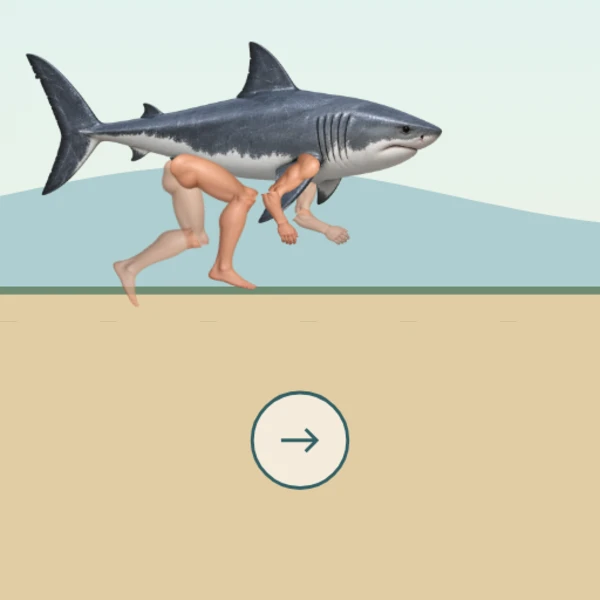
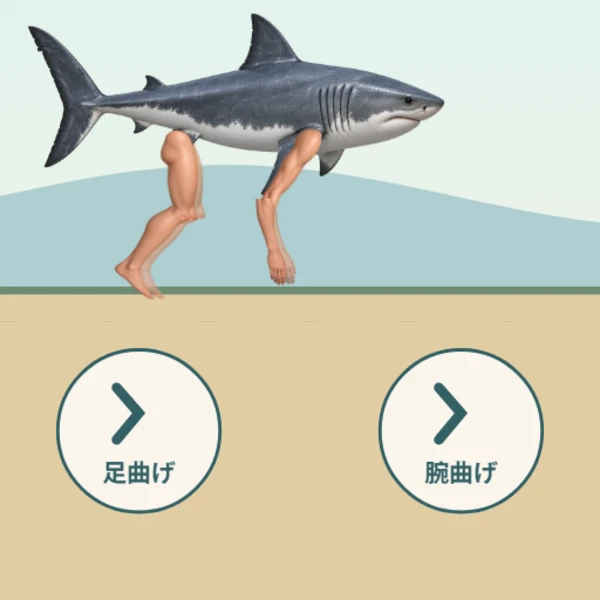
サメの脚と腕を別々のボタンで曲げ伸ばしする操作に変更

Changed region(s): [[0.03, 0.0, 0.75, 0.51], [0.09, 0.57, 0.6, 0.87], [0.63, 0.57, 0.93, 0.87]]

diff --git a/games/_shark-walk/index.html b/games/_shark-walk/index.html
@@ -130,9 +130,10 @@
 
   /* ============ 状態 ============ */
   var S = { INTRO: "intro", PLAY: "play", RESULT: "result" };
-  var state, score, T, held, keyMode = false;
+  var state, score, T;
+  var pointers={}, keys={};
 
-  var walker = SharkWalk(), camera = 0, accumulator=0, activePointer=null;
+  var walker = SharkWalk(), camera = 0, accumulator=0;
   var shark = new Image(), limbs = new Image(); shark.src="img/shark.webp"; limbs.src="img/limbs.webp";
   var CY;                                      /* 高さから決まる置き場所 */
   function place() {
@@ -144,8 +145,8 @@
     state = S.PLAY;
     score = 0;
     T = 0;
-    held = false;
-    walker=SharkWalk();camera=0;accumulator=0;activePointer=null;
+    pointers={};keys={};
+    walker=SharkWalk();camera=0;accumulator=0;
   }
 
   /* ============ 進行 ============ */
@@ -155,73 +156,48 @@
 
     accumulator+=dt;while(accumulator>=1/60){walker.update(1/60);accumulator-=1/60;} camera=Math.max(0,walker.now().x-235);
     score=Math.round(T*10)/10;
-    if(walker.now().x>=2500){state=S.RESULT;held=false;tone(880,.3,.1); }
+    if(walker.now().x>=2500){state=S.RESULT;clearInput();tone(880,.3,.1); }
   }
 
-  /* ============ 入力 ============
-     タップとスペースキーで同じことができるようにする。
-     x が null のときはキー操作（場所を指さない）。 */
-  function down(x, y) {
-    if(state===S.INTRO)return;
-    audioOn();
-    if (state === S.RESULT) {
-      var hit = x == null ? "retry" : hitButton(x, y);
-      if (hit === "share") doShare();
-      else if (hit === "retry") newRound();
-      return;
-    }
-    if(held)return;
-    held = true;
-    /* ▼UPDATE: 押したときの処理 */
-    walker.advance();
-    tone(130,.055,.035,"sine",75);
+  /* 左は脚、右は腕。指とキーを別々に数え、同時押しでも片方を離せる。 */
+  function controls(){return [{id:"leg",x:125,y:H*.82,r:73,label:"足曲げ"},{id:"arm",x:415,y:H*.82,r:73,label:"腕曲げ"}];}
+  function controlAt(x,y){var bs=controls();for(var i=0;i<bs.length;i++){var b=bs[i];if(Math.hypot(x-b.x,y-b.y)<=b.r)return b.id;}return null;}
+  function syncInput(){
+    ["leg","arm"].forEach(function(group){walker.set(group,Object.keys(pointers).some(function(k){return pointers[k]===group;})||Object.keys(keys).some(function(k){return keys[k]===group;}));});
   }
-  function move(x, y) {
-    if (state !== S.PLAY || !held) return;
-    /* ▼UPDATE: なぞっているときの処理（要らなければ空のまま） */
-  }
-  function up() {
-    if (!held) return;
-    held = false;
-    if(state===S.PLAY)walker.advance();
-  }
-
-  function atCanvas(e) {
-    var r = canvas.getBoundingClientRect();
-    return { x: (e.clientX - r.left) / r.width * W, y: (e.clientY - r.top) / r.height * H };
-  }
-  wrap.addEventListener("pointerdown", function (e) {
-    if(e.isPrimary===false||e.button>0||activePointer!==null)return;
-    activePointer=e.pointerId;if(wrap.setPointerCapture)wrap.setPointerCapture(e.pointerId);
-    e.preventDefault(); keyMode = false;
-    var p = atCanvas(e); down(p.x, p.y);
+  function clearInput(){pointers={};keys={};syncInput();}
+  function atCanvas(e){var r=canvas.getBoundingClientRect();return{x:(e.clientX-r.left)/r.width*W,y:(e.clientY-r.top)/r.height*H};}
+  wrap.addEventListener("pointerdown",function(e){
+    if(state===S.INTRO||e.button>0)return;
+    var p=atCanvas(e);
+    if(state===S.RESULT){var hit=hitButton(p.x,p.y);if(hit==="retry")newRound();else if(hit==="share")doShare();return;}
+    var group=controlAt(p.x,p.y);if(!group)return;
+    e.preventDefault();audioOn();pointers[e.pointerId]=group;
+    if(wrap.setPointerCapture)wrap.setPointerCapture(e.pointerId);
+    syncInput();tone(group==="leg"?130:190,.055,.035,"sine",75);
   });
-  wrap.addEventListener("pointermove", function (e) {
-    var p = atCanvas(e); move(p.x, p.y);
+  function releasePointer(e){delete pointers[e.pointerId];syncInput();}
+  wrap.addEventListener("pointerup",releasePointer);
+  wrap.addEventListener("pointercancel",releasePointer);
+  wrap.addEventListener("lostpointercapture",releasePointer);
+  window.addEventListener("blur",clearInput);
+  document.addEventListener("visibilitychange",function(){if(document.hidden)clearInput();});
+  function keyGroup(e){
+    if(e.key==="ArrowLeft"||e.key==="a"||e.key==="A"||e.code==="Space"||e.key===" ")return "leg";
+    if(e.key==="ArrowRight"||e.key==="d"||e.key==="D"||e.key==="Enter")return "arm";
+    return null;
+  }
+  var startingKey=null;
+  window.addEventListener("keydown",function(e){
+    if(e.key==="Escape"){e.preventDefault();if(!e.repeat)newRound();return;}
+    var group=keyGroup(e);if(!group)return;e.preventDefault();if(e.repeat)return;
+    if(state===S.INTRO){if(e.key===" "||e.code==="Space"||e.key==="Enter")startingKey=e.key;return;}
+    if(state===S.RESULT){if(e.key===" "||e.code==="Space"||e.key==="Enter")newRound();return;}
+    audioOn();keys[e.key]=group;syncInput();
   });
-  wrap.addEventListener("pointerup", function (e) { if(e.pointerId!==activePointer)return;activePointer=null;e.preventDefault(); up(); });
-  wrap.addEventListener("pointercancel", function () { activePointer=null;held=false; });
-  window.addEventListener("blur", function () { activePointer=null;held=false; });
-
-  window.addEventListener("keydown", function (e) {
-    var esc = e.key === "Escape";
-    var go = e.code === "Space" || e.key === " " || e.key === "Enter";
-    var left = e.key === "ArrowLeft" || e.key === "a" || e.key === "A";
-    var right = e.key === "ArrowRight" || e.key === "d" || e.key === "D";
-    if (!esc && !go && !left && !right) return;
-    e.preventDefault();
-    if (!esc) keyMode = true;
-    if (esc) { if (!e.repeat) newRound(); return; }
-    if (left || right) {
-      if (state !== S.PLAY) return;
-      /* ▼UPDATE: 左右キー（選ぶものがあるとき。目印は keyMode のときだけ出す） */
-      return;
-    }
-    if (e.repeat) return;                      /* 押しっぱなしで連発しない */
-    down();
-  });
-  window.addEventListener("keyup", function (e) {
-    if (e.code === "Space" || e.key === " " || e.key === "Enter") { if(state===S.INTRO)startButton.click();else up(); }
+  window.addEventListener("keyup",function(e){
+    if(state===S.INTRO&&startingKey===e.key){startingKey=null;startButton.click();return;}
+    delete keys[e.key];syncInput();
   });
 
   function doShare() {
@@ -260,14 +236,18 @@
       ctx.drawImage(img,sx,sy,sw,sh,-width/2,-(top||0),width,len+(top||0)+3);ctx.restore();
     }
     function leg(i){var a=walker.rear,b=walker.feet[i],k=walker.knee(a,b,76,1);piece(limbs,140,20,300,710,a,k,37,5);piece(limbs,140,700,410,810,k,b,51,3);}
-    function arm(i){var a=walker.front,b=walker.hands[i],k=walker.knee(a,b,45,-1);piece(limbs,655,65,285,625,a,k,31,5);piece(limbs,705,650,265,735,k,b,29,3);}
+    function arm(i){var a=walker.front,b=walker.hands[i],k=walker.knee(a,b,74,-1);piece(limbs,655,65,285,625,a,k,31,5);piece(limbs,705,650,265,735,k,b,29,3);}
     ctx.globalAlpha=.7;leg(1);arm(1);ctx.globalAlpha=1;
     var r=walker.rear,f=walker.front;ctx.save();ctx.translate((r.x+f.x)/2,(r.y+f.y)/2-27);ctx.rotate(Math.atan2(f.y-r.y,f.x-r.x));if(shark.complete&&shark.naturalWidth)ctx.drawImage(shark,-200,-95,380,190);ctx.restore();
     leg(0);arm(0);ctx.restore();
     ctx.fillStyle="#c3d8d5";roundRect(45,49,450,8,4);ctx.fill();ctx.fillStyle="#335f64";roundRect(45,49,450*Math.max(0,Math.min(1,(walker.now().x-222.5)/2277.5)),8,4);ctx.fill();
-    // 文字の説明を足さず、接地と押している状態を円で見せる。
-    ctx.beginPath();ctx.arc(270,H*.83,43,0,Math.PI*2);ctx.fillStyle=held?"#335f64":"#ffffffa0";ctx.fill();ctx.strokeStyle="#335f64";ctx.lineWidth=3;ctx.stroke();
-    ctx.beginPath();ctx.moveTo(253,H*.83);ctx.lineTo(285,H*.83);ctx.moveTo(275,H*.83-10);ctx.lineTo(285,H*.83);ctx.lineTo(275,H*.83+10);ctx.strokeStyle=held?"#fff":"#335f64";ctx.stroke();
+    controls().forEach(function(b){
+      var on=walker.now()[b.id+"Pressed"],bend=walker.now()[b.id];
+      ctx.beginPath();ctx.arc(b.x,b.y,b.r,0,Math.PI*2);ctx.fillStyle=on?"#335f64":"#ffffffc9";ctx.fill();ctx.strokeStyle="#335f64";ctx.lineWidth=3;ctx.stroke();
+      ctx.strokeStyle=on?"#fff":"#335f64";ctx.lineWidth=9;ctx.lineCap="round";
+      ctx.beginPath();ctx.moveTo(b.x-20,b.y-39);ctx.lineTo(b.x+20*bend,b.y-16);ctx.lineTo(b.x-20+43*bend,b.y+8);ctx.stroke();ctx.lineCap="butt";
+      ctx.fillStyle=on?"#fff":"#335f64";ctx.font="bold 22px sans-serif";ctx.textAlign="center";ctx.fillText(b.label,b.x,b.y+46);
+    });
 
     if (state === S.RESULT) drawResult();
   }
@@ -320,7 +300,7 @@
      テスト（games/_tools）から中を見るためのもの。読むのと進めるだけ。
      消さなくてよい。遊びを飛ばせるものは足さないこと。 */
   window.__probe = {
-    now: function () { return Object.assign({ state: state, score: score, W: W, H: H },walker.now()); },
+    now: function () { return Object.assign({ state: state, score: score, W: W, H: H, controls:controls() },walker.now()); },
     step: function (n) { for (var i = 0; i < (n || 1); i++) { update(1 / 60); draw(); } },
     reset: function () { newRound(); }
   };
@@ -333,7 +313,8 @@
     run: async function (r) {
       await r.wait(1000);
       r.key();
-      for(var i=0;i<90&&state!==S.RESULT;i++){r.key();await r.wait(650);}
+      function key(type,k){window.dispatchEvent(new KeyboardEvent(type,{key:k,bubbles:true}));}
+      for(var i=0;i<80&&state!==S.RESULT;i++){key("keydown","a");await r.wait(350);key("keydown","d");await r.wait(350);key("keyup","a");await r.wait(350);key("keyup","d");await r.wait(350);}
       await r.wait(1500);
     }
   };

diff --git a/games/_tools/tests/shark-walk.js b/games/_tools/tests/shark-walk.js
@@ -1,27 +1,31 @@
-/* サメの歩行：待機、接地、踏み替え、ゴール、やり直しを確認する。 */
-const assert=require('assert');
+/* 曲げ伸ばしの独立操作、二本指、接地による前進を確認する。 */
+const assert=require('assert'),fs=require('fs'),vm=require('vm');
 const load=require('../harness');
 const g=load('games/_shark-walk/index.html',{withScripts:true});
-g.step(180);
-assert.equal(g.probe.now().state,'intro');
-assert.equal(g.probe.now().steps,0);
-g.press(' ');
-assert.equal(g.probe.now().state,'play');
-assert.equal(g.probe.now().steps,0,'開始操作を歩行に混ぜない');
-g.step(600);
-assert(Math.abs(g.probe.now().x-222.5)<20,'放置してもゴールへ進まない');
-assert(g.probe.now().contacts>0,'足が接地する');
-g.down(270,600).step(20);
-let steps=g.probe.now().steps;
-g.wrap.fire('pointercancel',{});
-assert.equal(g.probe.now().steps,steps,'取消で蹴らない');
+function now(){return g.probe.now();}
+function step(n){g.step(n);g.drawn.length=0;assert(now().finite);}
+function pointer(type,id,group){const b=now().controls.find(b=>b.id===group);g.wrap.fire(type,{pointerId:id,clientX:b.x,clientY:b.y,button:0,isPrimary:id===1,preventDefault(){}});}
+g.step(180);assert.equal(now().state,'intro');
+g.press(' ');assert.equal(now().state,'play');assert(!now().legPressed&&!now().armPressed);
+step(600);assert(Math.abs(now().x-222.5)<10,'放置しても前進し続けない');assert(now().contacts>0);
+g.tap(270,200);assert(!now().legPressed&&!now().armPressed,'ボタン外では曲がらない');
+pointer('pointerdown',1,'leg');step(30);assert(now().leg>.95&&now().arm<.01,'脚だけ曲がる');
+pointer('pointerdown',2,'arm');step(30);assert(now().leg>.95&&now().arm>.95,'二本指で同時に曲がる');
+pointer('pointerup',1,'leg');step(30);assert(now().leg<.01&&now().arm>.95,'片方を離しても他方を保持');
+pointer('pointercancel',2,'arm');step(30);assert(!now().armPressed&&now().arm<.01);
+g.key('a');pointer('pointerdown',1,'leg');pointer('pointerup',1,'leg');assert(now().legPressed,'指を離してもキーで保持');
+g.key('d');g.win.fire('blur',{});assert(!now().legPressed&&!now().armPressed,'画面外へ移ると解除');
 g.esc();
 let frames=0;
-while(g.probe.now().state==='play'&&frames<6000){g.down(270,600).step(32).up().step(32);frames+=64;g.drawn.length=0;assert(g.probe.now().finite);}
-assert.equal(g.probe.now().state,'result','踏み替えでゴールに着く');
-assert(g.probe.now().x>=2500);
-console.log('到着',g.probe.now().score+'秒',g.probe.now().steps+'回の踏み替え');
-g.esc();assert.equal(g.probe.now().state,'play');assert.equal(g.probe.now().steps,0);
-load.SHAPES.forEach(v=>{g.view(v[0],v[1]);g.step(30);assert(g.probe.now().finite);assert(g.probe.now().H>=780&&g.probe.now().H<=1700);});
-for(let i=0;i<240;i++){g.press(i%2?' ':'Enter').step(2);g.drawn.length=0;assert(g.probe.now().finite);}
-console.log('開始・放置・接地・取消・到着・再挑戦・画面6種類・連打：確認済み');
+while(now().state==='play'&&frames<7200){g.key('a');step(21);g.key('d');step(21);g.key('a',true);step(21);g.key('d',true);step(21);frames+=84;}
+assert.equal(now().state,'result','脚と腕を曲げ伸ばししてゴールへ着く');assert(now().x>=2500);
+console.log('交互に曲げ伸ばしして到着：'+now().score+'秒');
+g.esc();assert.equal(now().state,'play');assert(!now().legPressed&&!now().armPressed);
+load.SHAPES.forEach(v=>{g.view(v[0],v[1]);step(20);let b=now().controls;assert(b[1].x-b[0].x>63);assert(b.every(b=>b.y+b.r<now().H));});
+// 空中では筋力がサメ全体を横へ加速させない。地面の反力だけで進む。
+const scope={};vm.createContext(scope);vm.runInContext(fs.readFileSync('games/_shark-walk/walk.js','utf8'),scope);
+const air=scope.SharkWalk();air.points.forEach(p=>{p.y-=1000;p.py-=1000;});
+function center(w){return w.points.reduce((v,p)=>v+p.x/p.w,0)/w.points.reduce((v,p)=>v+1/p.w,0);}
+const x=center(air);for(let i=0;i<30;i++){air.set('leg',i<15);air.set('arm',i>10);air.update(1/60);}assert(Math.abs(center(air)-x)<.001,'空中で横向きの力を足さない');
+for(const group of ['leg','arm','both']){const w=scope.SharkWalk();w.set('leg',group!=='arm');w.set('arm',group!=='leg');for(let i=0;i<1200;i++)w.update(1/60);const before=w.now().x;for(let i=0;i<600;i++)w.update(1/60);assert(Math.abs(w.now().x-before)<2,'押しっぱなしで自動走行しない');}
+console.log('開始・独立操作・二本指・取消・混合入力・到着・再挑戦・画面6種類・空中の力・長押し：確認済み');

diff --git a/games/_shark-walk/walk.js b/games/_shark-walk/walk.js
@@ -1,32 +1,32 @@
 /* 重力・関節・足裏の摩擦で進む、サメの歩行。座標は地面を高さ0とする。 */
 function SharkWalk() {
-  var points=[], phase=0, target=0, steps=0, contacts=0;
+  var points=[], bends={leg:0,arm:0}, pressed={leg:false,arm:false}, contacts=0;
   function point(x,y,m,r){var p={x:x,y:y,px:x,py:y,w:1/m,r:r};points.push(p);return p;}
-  var rear=point(160,-135,5,27),front=point(285,-135,5,30);
-  var feet=[point(120,-6,1,6),point(200,-6,1,6)];
-  var hands=[point(265,-55,.45,5),point(300,-55,.45,5)];
+  var rear=point(160,-141,5,27),front=point(285,-141,5,30);
+  var feet=[point(117,-6,1,6),point(126,-6,1,6)];
+  var hands=[point(247,-6,.8,6),point(256,-6,.8,6)];
   function ground(x){return x<600?0:x<1100?-18*Math.sin((x-600)/500*Math.PI):x<1500?0:x<1950?-28*Math.sin((x-1500)/450*Math.PI):0;}
   function distance(a,b,len,k){var dx=b.x-a.x,dy=b.y-a.y,d=Math.hypot(dx,dy)||1,q=(d-len)/d*k/(a.w+b.w);a.x+=dx*q*a.w;a.y+=dy*q*a.w;b.x-=dx*q*b.w;b.y-=dy*q*b.w;}
   function motor(a,b,x,y,k){var dx=b.x-a.x-x,dy=b.y-a.y-y,q=k/(a.w+b.w);a.x+=dx*q*a.w;a.y+=dy*q*a.w;b.x-=dx*q*b.w;b.y-=dy*q*b.w;}
-  function advance(){target+=Math.PI;steps++;}
+  function set(group,value){if(group in pressed)pressed[group]=!!value;}
   function update(dt){
     for(var sub=0;sub<2;sub++){
       var h=dt/2;
-      phase+=Math.min(target-phase,6*h);
+      Object.keys(bends).forEach(function(k){var target=pressed[k]?1:0;bends[k]+=(target-bends[k])*Math.min(1,12*h);});
       points.forEach(function(p){var vx=(p.x-p.px)*.997,vy=(p.y-p.py)*.997;p.px=p.x;p.py=p.y;p.x+=vx;p.y+=vy+900*h*h;});
       contacts=0;
       for(var n=0;n<14;n++){
         distance(rear,front,125,1);
         // 姿勢を支える筋力。地面へ足を押し返した反力は胴体にも返る。
         var angle=Math.atan2(front.y-rear.y,front.x-rear.x), c=Math.cos(angle),s=Math.sin(angle);
-        feet.forEach(function(f,i){var a=phase+i*Math.PI, x=48*Math.cos(a),y=110+24*Math.sin(a);motor(rear,f,x*c-y*s,x*s+y*c,.035);distance(rear,f,Math.min(146,Math.hypot(x,y)),.08);});
-        hands.forEach(function(f,i){var a=phase+i*Math.PI,x=-24*Math.cos(a),y=69;motor(front,f,x*c-y*s,x*s+y*c,.016);distance(front,f,78,.1);});
+        feet.forEach(function(f,i){var b=bends.leg,x=-43+80*b+i*9,y=135-75*b;motor(rear,f,x*c-y*s,x*s+y*c,.024);distance(rear,f,Math.hypot(x,y),.07);});
+        hands.forEach(function(f,i){var b=bends.arm,x=-38+78*b+i*9,y=135-82*b;motor(front,f,x*c-y*s,x*s+y*c,.022);distance(front,f,Math.hypot(x,y),.07);});
         // 胴体の傾きを戻すばね。外力による揺れは残す。
-        var tilt=(front.y-rear.y)*.012;front.y-=tilt;rear.y+=tilt;
+        var tilt=(front.y-rear.y)*.004;front.y-=tilt;rear.y+=tilt;
         points.forEach(function(p){var g=ground(p.x)-p.r;if(p.y>g){p.y=g;if(n===13)contacts++;p.px=p.x-(p.x-p.px)*.12;p.py=p.y;}});
       }
     }
   }
   function knee(a,b,l,sign){var dx=b.x-a.x,dy=b.y-a.y,d=Math.hypot(dx,dy)||1,h=Math.sqrt(Math.max(0,l*l-d*d/4));return{x:(a.x+b.x)/2+dy/d*h*sign,y:(a.y+b.y)/2-dx/d*h*sign};}
-  return {rear:rear,front:front,feet:feet,hands:hands,points:points,ground:ground,knee:knee,advance:advance,update:update,now:function(){return{x:(rear.x+front.x)/2,y:rear.y,phase:phase,target:target,steps:steps,contacts:contacts,finite:points.every(function(p){return Number.isFinite(p.x)&&Number.isFinite(p.y);})};}};
+  return {rear:rear,front:front,feet:feet,hands:hands,points:points,ground:ground,knee:knee,set:set,update:update,now:function(){return{x:(rear.x+front.x)/2,y:rear.y,leg:bends.leg,arm:bends.arm,legPressed:pressed.leg,armPressed:pressed.arm,contacts:contacts,finite:points.every(function(p){return Number.isFinite(p.x)&&Number.isFinite(p.y);})};}};
 }

diff --git a/games/_shark-walk/素材.md b/games/_shark-walk/素材.md
@@ -20,4 +20,4 @@ Use case: stylized-concept. A game sprite sheet of two isolated human limb game 
 
 `node games/_tools/tests/shark-walk.js`
 
-重力、胴体の距離制約、筋力に相当するばね、足裏の摩擦を計算する。横方向の自動加速は加えない。押す／離すで半周期ずつ踏み替え、地形の終点2500へ進む。画面の更新間隔にかかわらず1/60秒ずつ計算する。
+重力、胴体の距離制約、筋力に相当するばね、足裏の摩擦を計算する。横方向の自動加速は加えない。左の足曲げボタンで両脚、右の腕曲げボタンで両腕を曲げる。離すと伸ばす。二本指で同時操作でき、キーはA・←・スペースが脚、D・→・Enterが腕。自動的な踏み替えは行わず、手足の接地と曲げ伸ばしの反力で地形の終点2500へ進む。画面の更新間隔にかかわらず1/60秒ずつ計算する。
